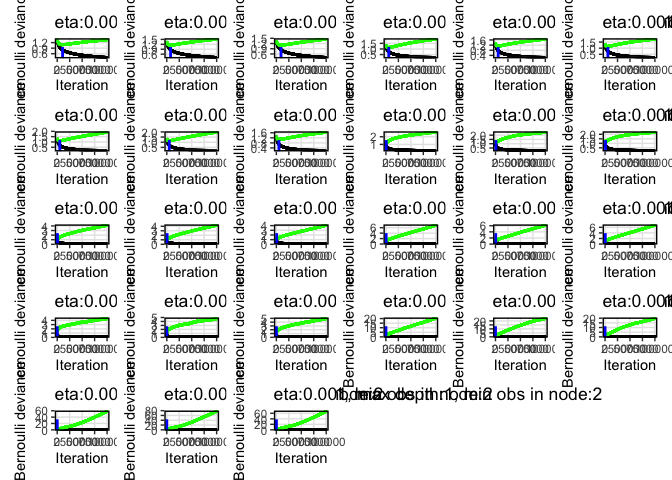
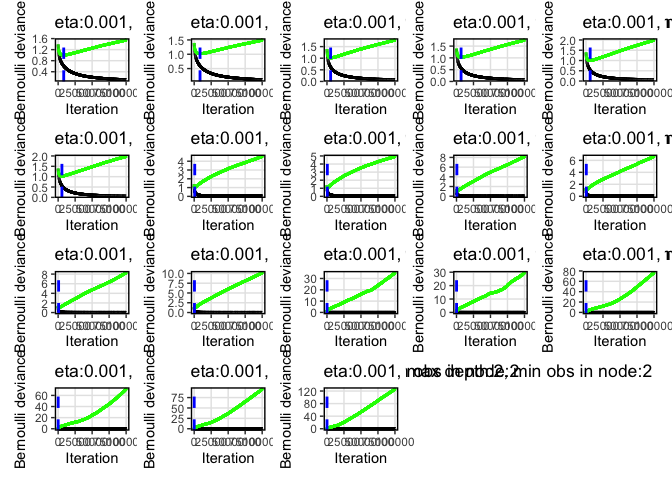
minobsinnode options for grid search: 2,5

diff --git a/fishbase.md b/fishbase.md
@@ -320,12 +320,12 @@ Han lab
 
     ## Warning: package 'tidyverse' was built under R version 4.0.2
 
-    ## ── Attaching packages ──────────────────────────────────────────────────────────────────────────────── tidyverse 1.3.0 ──
+    ## ── Attaching packages ────────────────────────────────────────────────────────────────────────────── tidyverse 1.3.0 ──
 
     ## ✓ tibble  3.0.1     ✓ purrr   0.3.4
     ## ✓ readr   1.3.1     ✓ forcats 0.5.0
 
-    ## ── Conflicts ─────────────────────────────────────────────────────────────────────────────────── tidyverse_conflicts() ──
+    ## ── Conflicts ───────────────────────────────────────────────────────────────────────────────── tidyverse_conflicts() ──
     ## x purrr::accumulate()      masks foreach::accumulate()
     ## x dplyr::arrange()         masks plyr::arrange()
     ## x dplyr::between()         masks data.table::between()
@@ -2015,11 +2015,11 @@ output to add to datasets from other verts
 print(Sys.time())
 ```
 
-    ## [1] "2020-08-01 12:41:24 EDT"
+    ## [1] "2020-08-03 11:42:50 EDT"
 
 ``` r
 load("gridSearch.Rdata")
-output_name = "vert_haddock_20200731_1857"
+output_name = "vert_haddock_20200803_1857"
 cores = 4
   cl <- makeCluster(cores, "SOCK", timeout = 60)
   # stopCluster(cl)
@@ -2034,9 +2034,27 @@ out <- data.frame(predict(dmy, newdata = out))
 out$Species = Species
 V = out
 
+names = names(V)
+T = V
+names = names(T)
+binary = NULL
+  for (a in 1:length(names)){
+    vals = unique(T[,names[a]])
+    vals = vals[!is.na(vals)]
+    if (length(which(vals==0)) + length(which(vals == -1)) == 2){
+      binary = c(binary, names[a])
+      #change to 1 and 0
+      inds0 = which(T[,names[a]]==0)
+      T[inds0,names[a]]=0
+      inds1 = which(T[,names[a]]==-1)
+      T[inds1,names[a]]=1
+    }
+  }
+V = T
 
 V$adult_svl_cm[is.nan(V$adult_svl_cm)] <- NA
 V$log_adult_body_mass_g[is.nan(V$log_adult_body_mass_g)] <- NA
+
 DF = V
 # A<- read.csv(file = "docking_results_AA_30_83.csv")
 #find out what haddock_score_median is across all species
@@ -2060,8 +2078,8 @@ nrounds = 100000
 
 #for real
 eta = c(0.001, 0.01, 0.1)
-max_depth = c(1,2,3)
-n.minobsinnode = c(2,5,10)
+max_depth = c(2,3,4)
+n.minobsinnode = c(2,5)
 nrounds = 100000
 
 # n.minobsinnode = c(2)
@@ -2091,7 +2109,7 @@ save(hyper_grid, file = paste0("hyper_grid", ".", output_name, ".Rdata"))
 print(Sys.time())
 ```
 
-    ## [1] "2020-08-01 12:56:16 EDT"
+    ## [1] "2020-08-03 12:15:32 EDT"
 
 \#\#make deviance
 plots
@@ -2117,7 +2135,7 @@ save(PLTS, file = paste0("PLTS", ".", "deviance.", output_name, ".Rdata"))
 \#\#make deviance plot just for the “best” parameters
 
 ``` r
-min_trees = 1000
+# min_trees = 1000
 min_trees = 0
 buffer= nrounds*0.33#buffer to make sure there are enough rounds when it comes to making null model
 max_trees = nrounds - buffer
@@ -2157,7 +2175,7 @@ source("bootstrapGBM.R")
 print(Sys.time())
 ```
 
-    ## [1] "2020-08-01 13:02:19 EDT"
+    ## [1] "2020-08-03 12:19:34 EDT"
 
 ``` r
 # nruns = 1
@@ -2182,7 +2200,7 @@ save(OUT_rand, file = paste0("OUT_rand_", output_name, ".Rdata"))
 print(Sys.time())
 ```
 
-    ## [1] "2020-08-01 13:10:58 EDT"
+    ## [1] "2020-08-03 12:51:51 EDT"
 
 \#\#look at performance
 
@@ -2198,7 +2216,7 @@ print("observed data, eval train")
 mean(I$auc_train)
 ```
 
-    ## [1] 0.9138368
+    ## [1] 0.948007
 
 ``` r
 print("observed data, eval test")
@@ -2210,7 +2228,7 @@ print("observed data, eval test")
 mean(I$auc_test)
 ```
 
-    ## [1] 0.8061831
+    ## [1] 0.8308206
 
 ``` r
 R <- OUT_rand[[1]]
@@ -2218,7 +2236,7 @@ R <- OUT_rand[[1]]
 mean(R$auc_train)
 ```
 
-    ## [1] 0.6546667
+    ## [1] 0.7004058
 
 ``` r
 print("null data, eval test")
@@ -2230,7 +2248,7 @@ print("null data, eval test")
 mean(R$auc_test)
 ```
 
-    ## [1] 0.5238407
+    ## [1] 0.5584904
 
 \#\#plot importance
 
